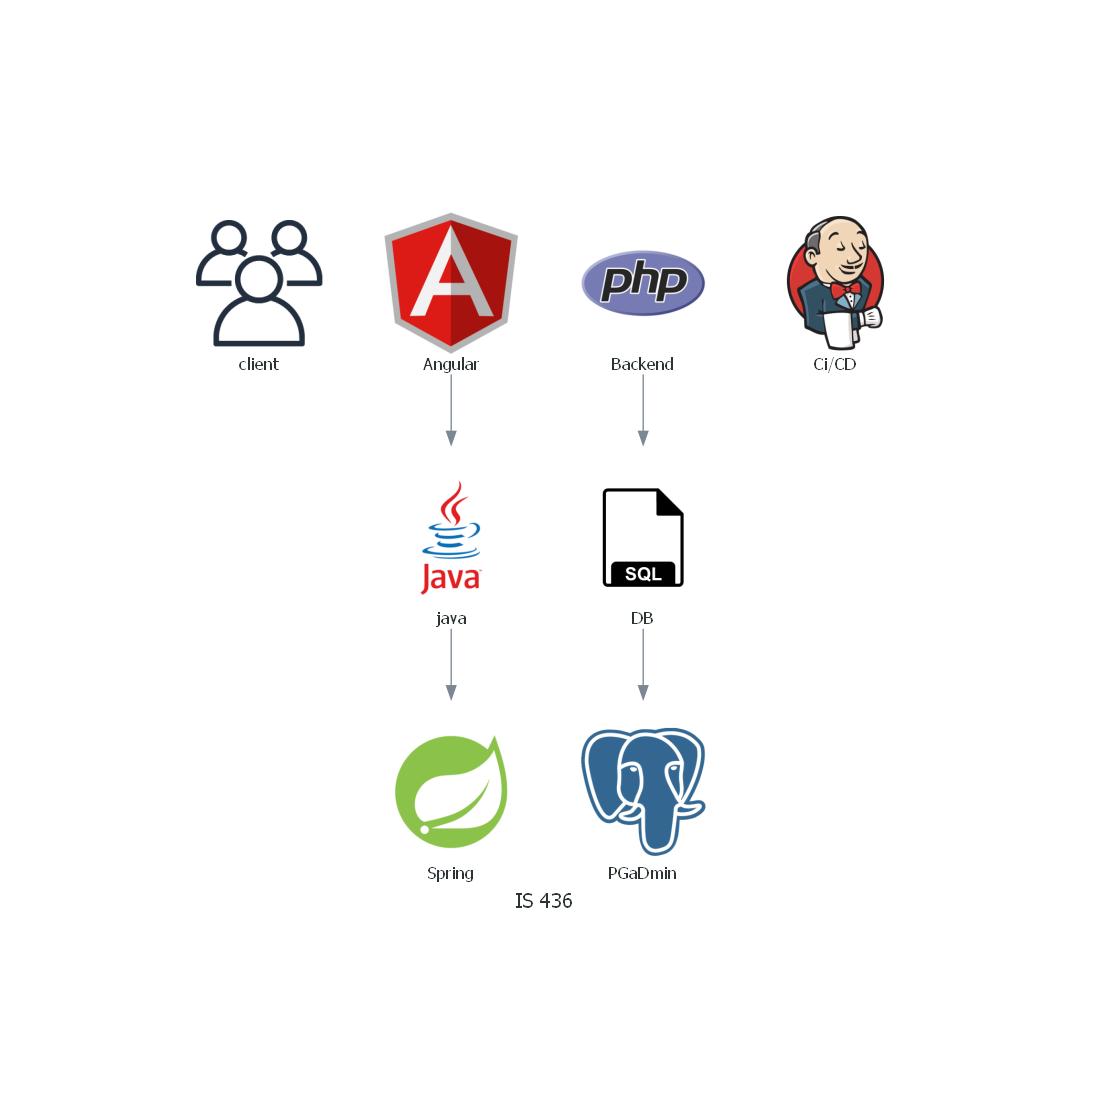
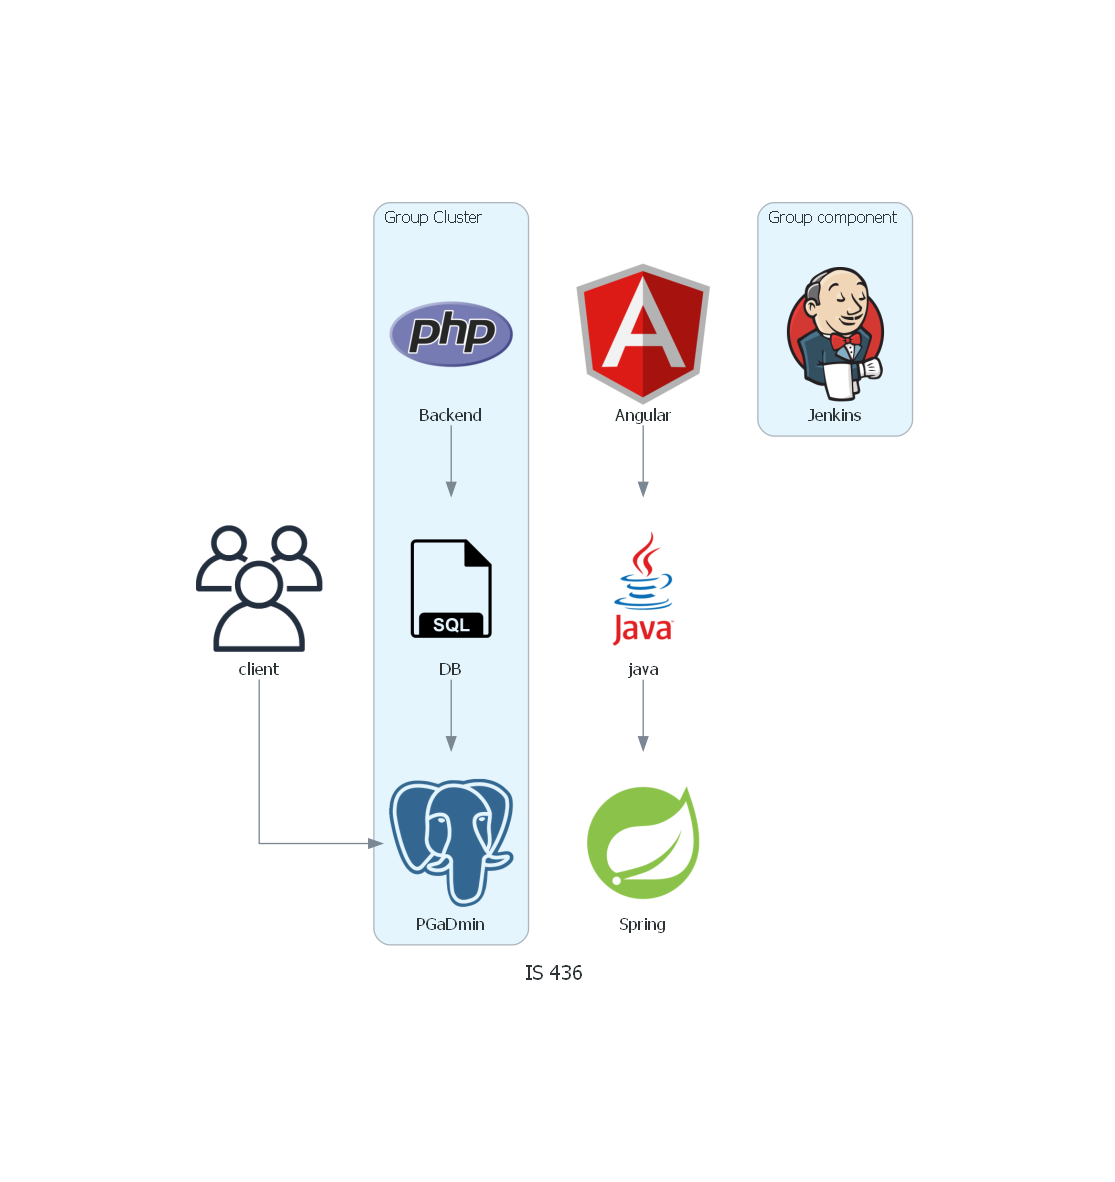
More code

Changed region(s): [[0.1865, 0.1532, 0.8391, 0.827], [0.1554, 0.4288, 0.2797, 0.582]]

diff --git a/diagram.py b/diagram.py
@@ -1,4 +1,4 @@
-from diagrams import Diagram
+from diagrams import Diagram,Cluster
 from diagrams.aws.compute import EC2
 from diagrams.aws.database import RDS
 from diagrams.aws.network import ELB
@@ -8,9 +8,17 @@ from diagrams.programming.language import *
 from diagrams.generic.database import *
 from diagrams.onprem.client import Users
 from diagrams.onprem.database import PostgreSQL
+from diagrams.onprem.database import *
 from diagrams.onprem.ci import Jenkins
+
 with Diagram("IS 436 ", show=False, direction="TB"):
-    Users("client")
+    client=Users("client")
     Angular("Angular") >> Java("java") >> Spring("Spring")
-    PHP("Backend") >> SQL("DB") >> PostgreSQL("PGaDmin")
-    Jenkins("Ci/CD")
+   
+
+    with Cluster("Group component"):
+        workers=Jenkins("Jenkins") 
+    with Cluster("Group Cluster"):
+        source= PHP("Backend") >> SQL("DB") >> PostgreSQL("PGaDmin")
+
+    client >> source
